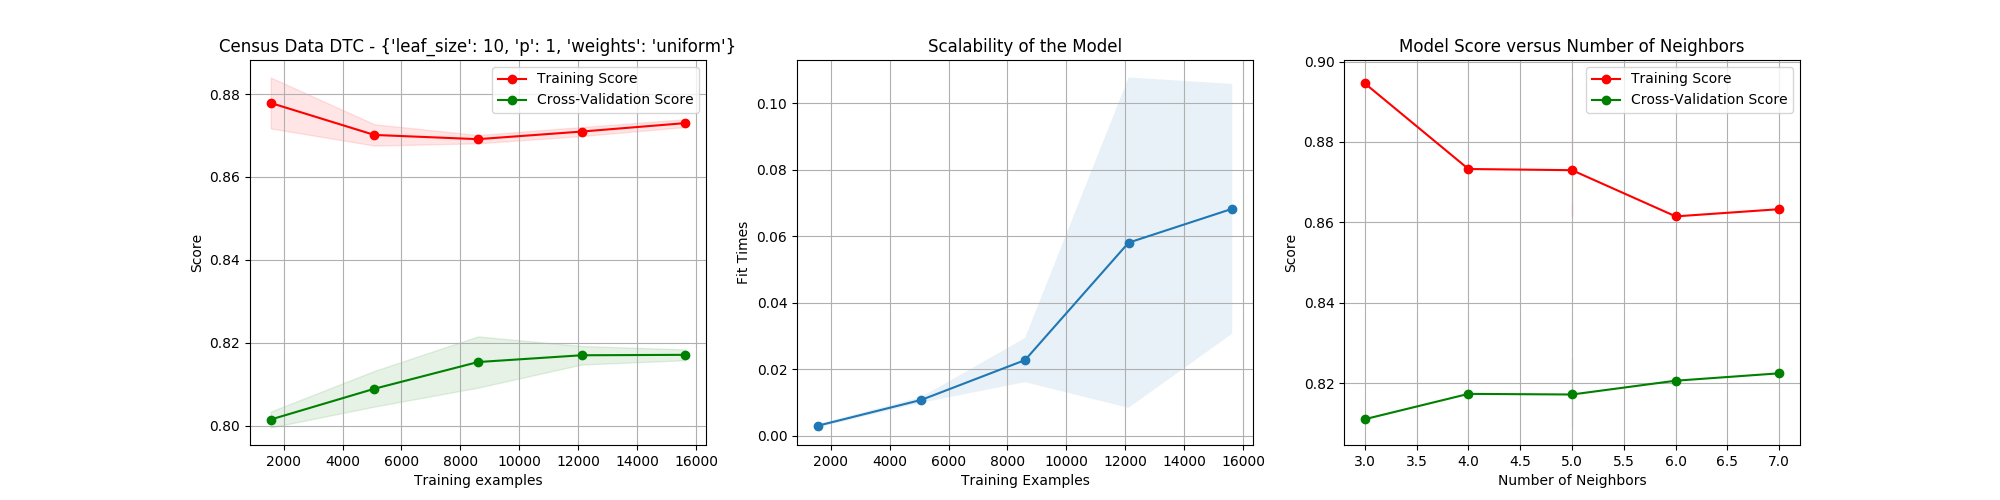
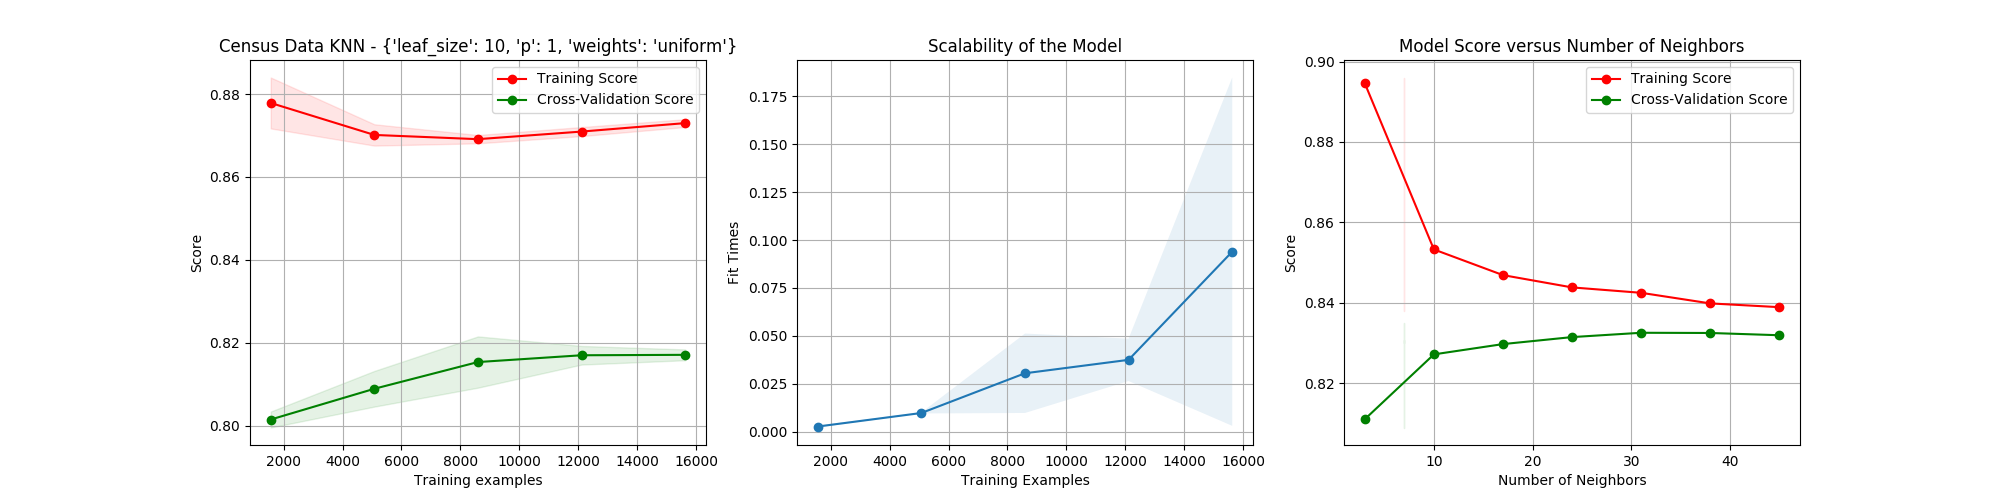
Did KNN again with more values of K

diff --git a/Code/generate_analysis.py b/Code/generate_analysis.py
@@ -22,17 +22,17 @@ def main():
     # ann_learning.neural_network_learning(x_census_data, y_census_data, "Census Data")
     # ann_learning.neural_network_learning(x_stock_data, y_stock_data, "Stock Data")
 
-    print("\n---------- Running Data on Decision Tree Learner with Adaboost -------------\n")
-    boosted_learning.run_boosted_learning(x_census_data, y_census_data, "Census Data")
-    boosted_learning.run_boosted_learning(x_stock_data, y_stock_data, "Stock Data")
+    # print("\n---------- Running Data on Decision Tree Learner with Adaboost -------------\n")
+    # boosted_learning.run_boosted_learning(x_census_data, y_census_data, "Census Data")
+    # boosted_learning.run_boosted_learning(x_stock_data, y_stock_data, "Stock Data")
 
     # print("\n---------- Running Data on Support Vector Learner -------------\n")
     # support_vector_learning.run_svc_learning(x_census_data, y_census_data, "Census Data")
     # support_vector_learning.run_svc_learning(x_stock_data, y_stock_data, "Stock Data")
 
-    # print("\n---------- Running Data on KNN Learner -------------\n")
-    # knn_learning.run_knn_learning(x_census_data, y_census_data, "Census Data")
-    # knn_learning.run_knn_learning(x_stock_data, y_stock_data, "Stock Data")
+    print("\n---------- Running Data on KNN Learner -------------\n")
+    knn_learning.run_knn_learning(x_census_data, y_census_data, "Census Data")
+    knn_learning.run_knn_learning(x_stock_data, y_stock_data, "Stock Data")
 
     print("Total Execution time: " + str(time.time() - timer) + "s")
 

diff --git a/Code/knn_learning.py b/Code/knn_learning.py
@@ -54,8 +54,8 @@ def run_knn_learning(x_data, y_data, data_string=""):
         print("".join(word.ljust(col_width) for word in row))
 
     # plot the learning curve
-    title = data_string + " DTC - " + str(grid_searcher.best_params_)
-    knn = range(3, 8, 1)
+    title = data_string + " KNN - " + str(grid_searcher.best_params_)
+    knn = range(3, 50, 7)
     figure = evaluate_model_learning_complexity.plot_learning_curve(grid_searcher.best_estimator_, title,
                                                                     x_train, y_train, parameter="n_neighbors",
                                                                     param_grid=knn, param_string="Number of Neighbors",
